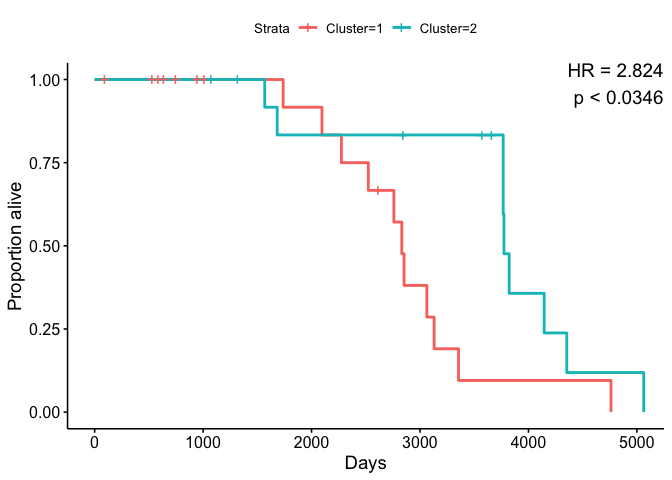
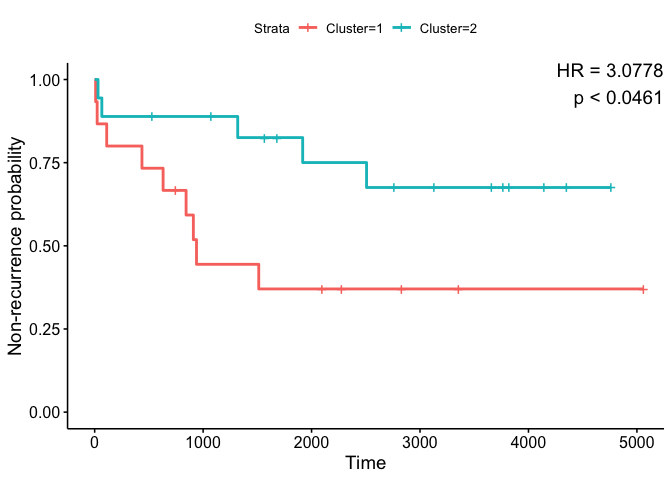
Updated MD

diff --git a/README.md b/README.md
@@ -1,13 +1,14 @@
-<img src="Denvar_logo.png" width="200" height="150">
+DenVar
+================
 
-This is an R package implementing the proposed method from the paper
+This is a R package implementing the proposed method from the paper
 “DenVar: Density-based Variation analysis of multiplex imaging data”.
 
 ## Loading required packages
 
 First, we load our package, DenVar and a few other required packages.
 One can install the developmental version of DenVar by running the
-command: **devtools::install\_github(‘sealx017/DenVar’)**.
+command: **devtools::install_github(‘sealx017/DenVar’)**.
 
 ``` r
 #devtools::install_github('sealx017/DenVar')
@@ -22,25 +23,26 @@ require(coxme)
 
 ## Loading the dataset
 
-Next, we import the example datasets named, “PD1\_TNBC\_MIBI.csv” and
-“Survival\_TNBC\_MIBI.csv” which are respectively the PD-1 marker
-expression data and the survival data of 33 patients from TMBC MIBI
-data. Both the datasets have a column named “SampleID” denoting
-individual patient IDs.
+We import the example datasets named, “Marker_data_TNBC_MIBI.csv” and
+“clinical_data_TNBC_MIBI.csv” extracted from the TNBC data used in Keren
+et al. (2018). The former has the PD1 marker-expression data in 170, 171
+cells from 33 subjects. The latter has recurrence and survival data of
+those same subjects. Both the datasets have a column named “ID” denoting
+the individual subject IDs.
 
 ``` r
 
-PD1_data = read.csv("Data/PD1_TNBC_MIBI.csv")[,-1]
-clinical_data = read.csv("Data/Survival_TNBC_MIBI.csv")[,-1]
+PD1_data = read.csv("Data/Marker_data_TNBC_MIBI.csv")
+clinical_data = read.csv("Data/clinical_data_TNBC_MIBI.csv")
 ```
 
 ## Computing the KDEs and the JSD matrix
 
-We compute the KDE of PD-1 expression in all the patients and store it
+We compute the KDE of PD-1 expression in all the subjects and store it
 in an array. We keep number of grid points (ngrids) in the KDE at 1024.
-Using the array of KDEs, we compute pairwise Jensen-Shannon Distance
-(JSD) between the patient densities. We create the JSD matrix having
-distances between all possible patient pairs.
+Using the array of KDEs, we compute the pairwise Jensen-Shannon Distance
+(JSD) between the subject-specific densities. We create the JSD matrix
+having distances between all possible patient pairs.
 
 ``` r
 
@@ -62,8 +64,8 @@ cluster_cols = TRUE,show_colnames = T, show_rownames = T,treeheight_row=0,treehe
 
 ## Hierarchical clustering based on the JSD matrix
 
-We use the JSD matrix for hierarchical clusetring of the patients into
-two meanigful clusters.
+We subject the JSD matrix to hierarchical clustering to group the
+subjects into two meaningful clusters.
 
 ``` r
 
@@ -71,16 +73,29 @@ hier_clustering = hclust(as.dist(JSD_matrix_between_all), method="ward.D")
 hier_groups = as.data.frame(cutree(hier_clustering, k=2)); colnames(hier_groups) = "Cluster"
 ```
 
-## CoxPH model and KM plots
+## CoxPH model with Recurrence Outcome and KM plot
 
-Using the vector of cluster-labels, we fit a CoxPH model and plot the
-Kaplan-Meyer (KM) curves stratified by the clusters. We display the
-estimated Hazard Ratio (HR) and the corresponding p-value as well.
+Using the recurrence outcome (time and censoring-indicator), we fit a
+CoxPH model and plot the Kaplan-Meyer (KM) curves stratified by the
+clusters. We display the estimated Hazard Ratio (HR) and the
+corresponding p-value as well. Note that we have created a matrix named
+“surv” by merging the outcome information and the vector of
+cluster-labels and changed the names of the censoring-indicator and time
+columns to “Censored” and “Time” respectively.
 
 ``` r
 
-surv = cbind(clinical_data, hier_groups)
-coxplot = coxPH_plot(surv)
+surv = cbind(clinical_data[,c(1:3)], hier_groups)
+colnames(surv)[2:3] = c("Censored", "Time")
+print(head(surv))
+#   ID Censored Time Cluster
+# 1  1        1    9       1
+# 2  2        0  745       1
+# 3  3        0 3130       2
+# 4  4        1   31       2
+# 5  5        0 1683       2
+# 6  6        0 2275       1
+coxplot = coxPH_plot(surv, name = "Non-recurrence probability")
 ```
 
 <img src="README_files/figure-gfm/CoxPh model with the clusters-1.png" width="100%" />
@@ -89,27 +104,85 @@ coxplot = coxPH_plot(surv)
 #print(coxplot$plot)
 ```
 
-## CoxPH model with random effects (Coxme)
+## CoxPH model with random effects (Coxme) with Recurrence Outcome
 
-We use the computed JSD matrix directly in a CoxPH model with random
-effect (also known as Coxme). We show the estimated variance component
-and the corresponding LRT for testing its significance.
+Using the recurrence outcome, we use the computed JSD matrix directly in
+a CoxPH model with random effect (also known as Coxme). We show the
+estimated variance component and the corresponding LRT for testing its
+significance.
 
 ``` r
 
 res.coxme = coxme_model(surv, JSD_matrix_between_all)
 print(res.coxme)
 # $Variance_estimate
-# $Variance_estimate$SampleID
+# $Variance_estimate$ID
 #   Vmat.1 
-# 2.239131 
+# 0.658883 
 # 
 # 
 # $LRT
 # Integrated 
-#   3.603008 
+#   1.130152 
 # 
 # $LRT_pvalue
 # Integrated 
-# 0.05767512
+#   0.287743
+```
+
+## CoxPH model with Survival Outcome and KM plot
+
+Using the survival outcome (time and censoring indicator), we fit a
+CoxPH model and plot the Kaplan-Meyer (KM) curves stratified by the
+clusters. We display the estimated Hazard Ratio (HR) and the
+corresponding p-value as well. Note that we have created a matrix named
+“surv” by merging the outcome information and the vector of
+cluster-labels and changed the names of the censoring-indicator and time
+columns to “Censored” and “Time” respectively.
+
+``` r
+
+surv = cbind(clinical_data[,c(1, 4:5)], hier_groups)
+colnames(surv)[2:3] = c("Censored", "Time")
+print(head(surv))
+#   ID Censored Time Cluster
+# 1  1        1 2612       1
+# 2  2        1  745       1
+# 3  3        0 3130       2
+# 4  4        0 2523       2
+# 5  5        0 1683       2
+# 6  6        0 2275       1
+coxplot = coxPH_plot(surv, name = "Survival probability")
+```
+
+<img src="README_files/figure-gfm/CoxPh model with the clusters and survival-1.png" width="100%" />
+
+``` r
+#print(coxplot$plot)
+```
+
+## CoxPH model with random effects (Coxme) with Survival Outcome
+
+Using the survival outcome, we use the computed JSD matrix directly in a
+CoxPH model with random effect (also known as Coxme). We show the
+estimated variance component and the corresponding LRT for testing its
+significance.
+
+``` r
+
+res.coxme = coxme_model(surv, JSD_matrix_between_all)
+print(res.coxme)
+# $Variance_estimate
+# $Variance_estimate$ID
+#    Vmat.1 
+# 0.4727335 
+# 
+# 
+# $LRT
+# Integrated 
+#   0.318442 
+# 
+# $LRT_pvalue
+# Integrated 
+#  0.5725455
 ```
